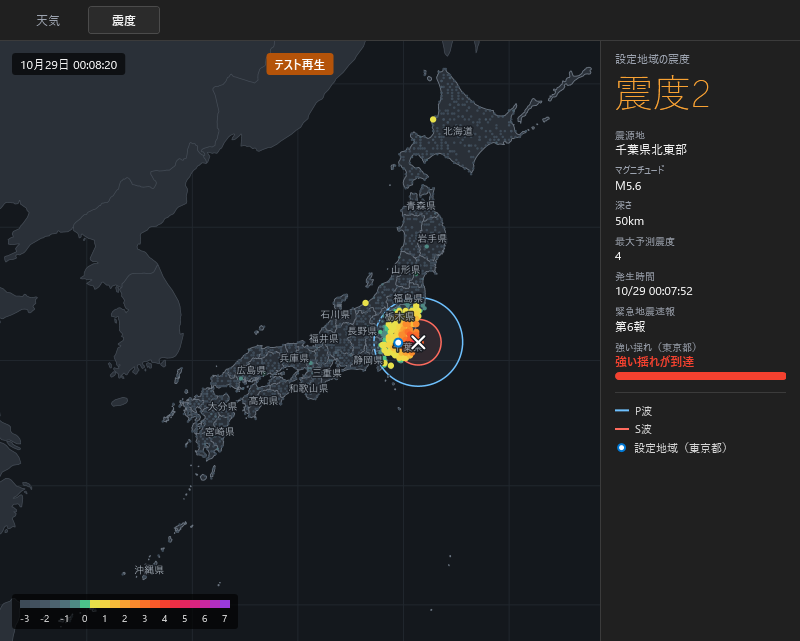
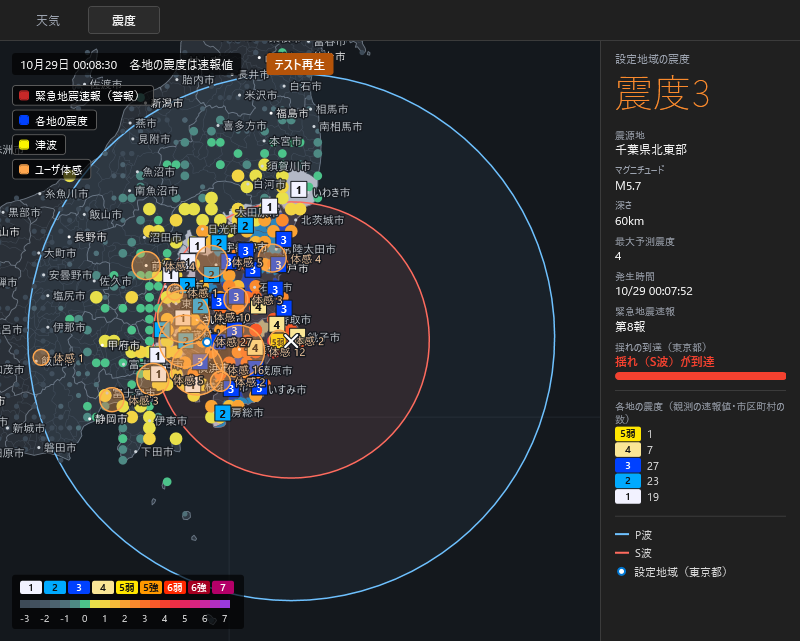
テスト版ページの画像を最新の機能に合わせて差し替え、v1.6B のインストーラーを更新

diff --git a/calendarjp/earthquake-beta/index.html b/calendarjp/earthquake-beta/index.html
@@ -179,6 +179,7 @@
         <p>
           <span class="sub-line">設定した地域に近い地震を、緊急地震速報の段階でアラート音とポップアップで知らせます。</span>
           <span class="sub-line">カレンダーの天気の部分をクリックすると、全国の天気と週間天気の地図が開き、タブで震度マップに切り替えられます。</span>
+          <span class="sub-line">震度マップには緊急地震速報（警報）・各地の震度・津波予報・ユーザ体感を、天気マップには気象の警報・注意報と河川の氾濫情報を重ねて表示します。</span>
         </p>
         <p>
           <span class="sub-line">アラート音、音量、ポップアップ、通知する震度は設定画面で変更できます。地域は天気の設定を使います。</span>
@@ -207,7 +208,7 @@
 
   <script>
     const BETA_TAG = 'calendarjp-v1.6B';
[2 lines of base64/hex data omitted]
     const LIKE_PAGE = 'calendarjp-earthquake-beta';
     const LIKE_STORAGE_KEY = 'rl-like-' + LIKE_PAGE;
 
